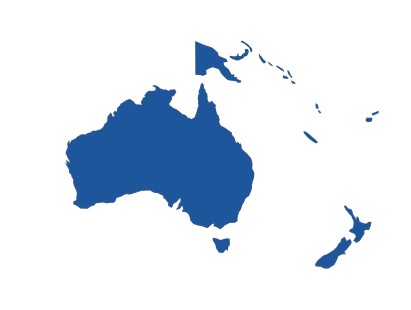
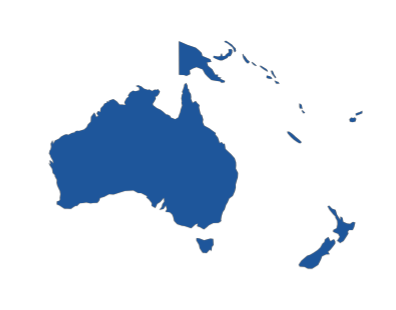
atualizacao

diff --git a/Contornos/contorno_regioes.py b/Contornos/contorno_regioes.py
@@ -16,10 +16,10 @@ def gerar_contorno_regiao(region, world = world, salvar=False, nome_arquivo="con
     fig, ax = plt.subplots(figsize=(8, 6), facecolor='none')
 
     
-    regiao.plot(ax=ax, color="#337EDB", edgecolor='none')
+    regiao.plot(ax=ax, color="#1E569B", edgecolor='none')
     # #0C2340 cor azul padrão
     # '#1E569B' cor usada no clear mode
-    # '#265dab' cor usada no dark mode
+    # "#337EDB" cor usada no dark mode
 
     # Remover eixos para parecer uma imagem isolada
     ax.set_xticks([])
@@ -35,7 +35,7 @@ def gerar_contorno_regiao(region, world = world, salvar=False, nome_arquivo="con
 
 
 
-gerar_contorno_regiao(region='América do Sul e Central', salvar=False, nome_arquivo="brasil_contorno.png")
+gerar_contorno_regiao(region='Oceania', salvar=True, nome_arquivo="Oceania.png")
 
 # gerar_contorno_regiao(region='América do Sul e Central', salvar=True, nome_arquivo="Mundo_dark_mode.png")
 
@@ -46,3 +46,31 @@ for regiao in regioes:
 
 
 
+
+
+# Converter arquivo PGN para png
+
+
+import os
+
+def converter_extensao_para_minuscula(caminho_arquivo):
+    # Separa o diretório, nome e extensão
+    pasta, nome_arquivo = os.path.split(caminho_arquivo)
+    nome_base, extensao = os.path.splitext(nome_arquivo)
+
+    # Verifica se a extensão está em maiúscula
+    if extensao.isupper():
+        nova_extensao = extensao.lower()
+        novo_nome = nome_base + nova_extensao
+        novo_caminho = os.path.join(pasta, novo_nome)
+
+        # Renomeia o arquivo
+        os.rename(caminho_arquivo, novo_caminho)
+        print(f"Arquivo renomeado para: {novo_caminho}")
+        return novo_caminho
+    else:
+        print("A extensão já está em minúscula. Nenhuma ação necessária.")
+        return caminho_arquivo
+
+
+converter_extensao_para_minuscula(r'C:\Users\andre.alves\OneDrive - epe.gov.br\Área de Trabalho\Mapa PANGEO\Mapa PANGEO\Contornos\Oceania.PNG')

diff --git a/Contornos/contorno_pais.py b/Contornos/contorno_pais.py
@@ -37,9 +37,9 @@ def gerar_contorno_pais(nome_pais, salvar=False, nome_arquivo="contorno.png"):
     ax.set_xlim(centro_x - largura_alvo / 2, centro_x + largura_alvo / 2)
     
     # Plotar o país preenchido e sem bordas
-    pais.plot(ax=ax, color="#c5c5c5", edgecolor='none')
+    pais.plot(ax=ax, color="#757575", edgecolor='none')
     # '#757575' cinza do clear mode
-    # 
+    # "#c5c5c5" cinza do dark mode
 
     # Remover eixos para parecer uma imagem isolada
     ax.set_xticks([])
